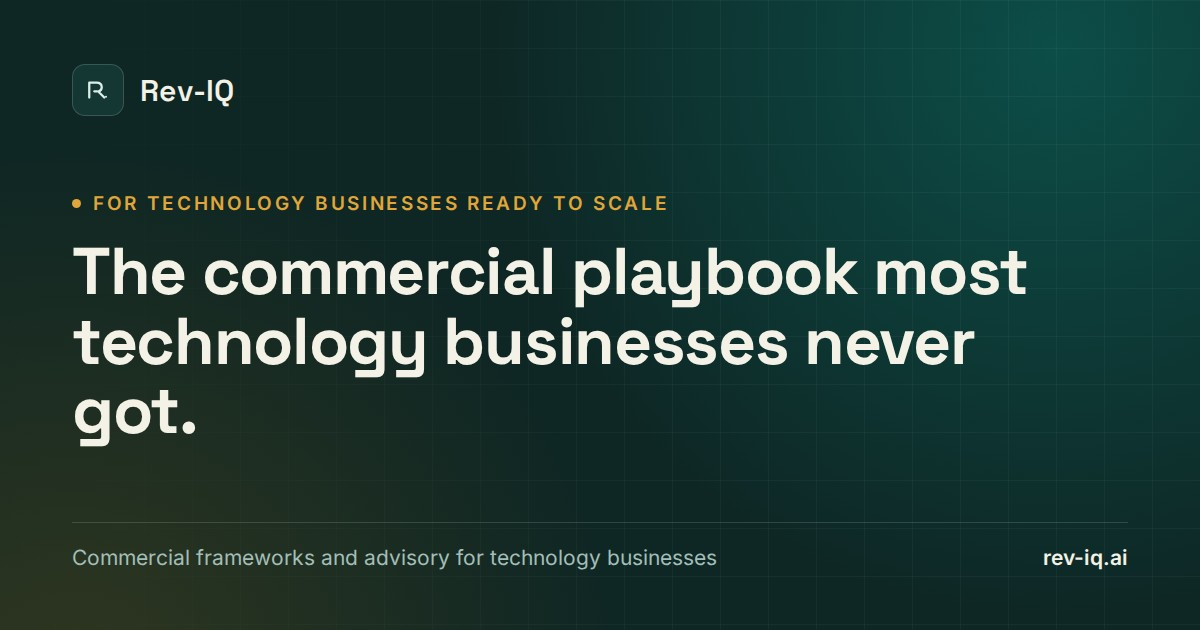
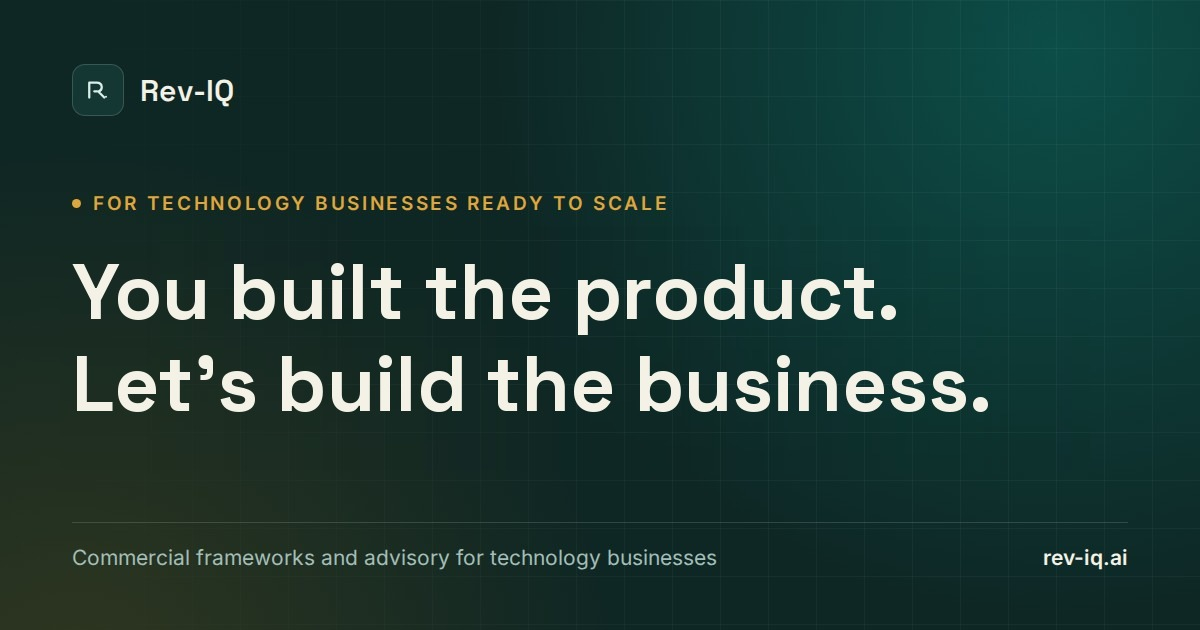
Homepage headline: You built the product. Let's build the business.

Changed region(s): [[0.0617, 0.3921, 0.8633, 0.7238]]

diff --git a/index.html b/index.html
@@ -19,14 +19,14 @@
   <meta property="og:site_name" content="Rev-IQ Advisory" />
   <meta property="og:locale" content="en_AU" />
   <meta property="og:url" content="https://rev-iq.ai/" />
-  <meta property="og:title" content="Rev-IQ Advisory | The commercial playbook for technology businesses" />
+  <meta property="og:title" content="Rev-IQ Advisory | You built the product. Let's build the business." />
   <meta property="og:description" content="Rev-IQ Advisory is a resource hub and senior commercial practice for founders and leaders of technology businesses, from SaaS and software to technology services and AI-built products, who need commercial structure to match their product." />
   <meta property="og:image" content="https://rev-iq.ai/images/og/index.jpg" />
   <meta property="og:image:width" content="1200" />
   <meta property="og:image:height" content="630" />
-  <meta property="og:image:alt" content="Rev-IQ: The commercial playbook most technology businesses never got." />
+  <meta property="og:image:alt" content="Rev-IQ Advisory: You built the product. Let's build the business." />
   <meta name="twitter:card" content="summary_large_image" />
-  <meta name="twitter:title" content="Rev-IQ Advisory | The commercial playbook for technology businesses" />
+  <meta name="twitter:title" content="Rev-IQ Advisory | You built the product. Let's build the business." />
   <meta name="twitter:description" content="Rev-IQ Advisory is a resource hub and senior commercial practice for founders and leaders of technology businesses, from SaaS and software to technology services and AI-built products, who need commercial structure to match their product." />
   <meta name="twitter:image" content="https://rev-iq.ai/images/og/index.jpg" />
   <link rel="icon" href="favicon.svg" type="image/svg+xml" />
@@ -119,6 +119,7 @@
     .hero::before { content: ""; position: absolute; inset: -10% -10% auto auto; width: 46vw; height: 46vw; max-width: 640px; max-height: 640px; background: radial-gradient(circle at 70% 30%, rgba(11,110,102,0.10), transparent 62%); pointer-events: none; z-index: 0; }
     .hero > .container { position: relative; z-index: 1; }
     h1 { font-size: clamp(2.5rem, 5vw, 4.4rem); max-width: 17ch; letter-spacing: -0.025em; }
+    .hero-title span { display: block; text-wrap: balance; }
     .hero-grid { display: grid; grid-template-columns: 1.15fr 0.85fr; gap: var(--space-12); align-items: start; }
     .lead { margin-top: var(--space-6); max-width: 62ch; color: var(--color-text-muted); font-size: var(--text-lg); }
     .hero-card { background: var(--color-ink); color: var(--color-ink-text); border: 1px solid var(--color-ink-border); border-radius: var(--radius-xl); padding: var(--space-8); box-shadow: var(--shadow-lg); margin-top: 2.6rem; }
@@ -355,8 +356,8 @@
       <div class="container hero-grid">
         <div>
           <div class="eyebrow"><span class="dot"></span>For SaaS, software, AI &amp; technology businesses</div>
-          <h1>The commercial playbook most technology businesses never got.</h1>
-          <p class="lead">Rev-IQ Advisory is a resource hub and senior commercial practice for founders and leaders of technology businesses, from SaaS and software to technology services and AI-built products. It's for teams that have proven the product and are ready to build the commercial engine to scale it. Practical frameworks you can use today, and direct support when you want it applied to your business.</p>
+          <h1 class="hero-title"><span>You built the product.</span> <span>Let's build the business.</span></h1>
+          <p class="lead">Free frameworks, AI Skills that run in your own assistant, and senior commercial support when you want it applied. Rev-IQ Advisory helps technology businesses build the commercial engine to scale.</p>
           <div class="actions">
             <a class="btn btn-primary" href="resources">Explore the resource library</a>
             <a class="btn btn-secondary" href="contact">Book a strategy conversation</a>
